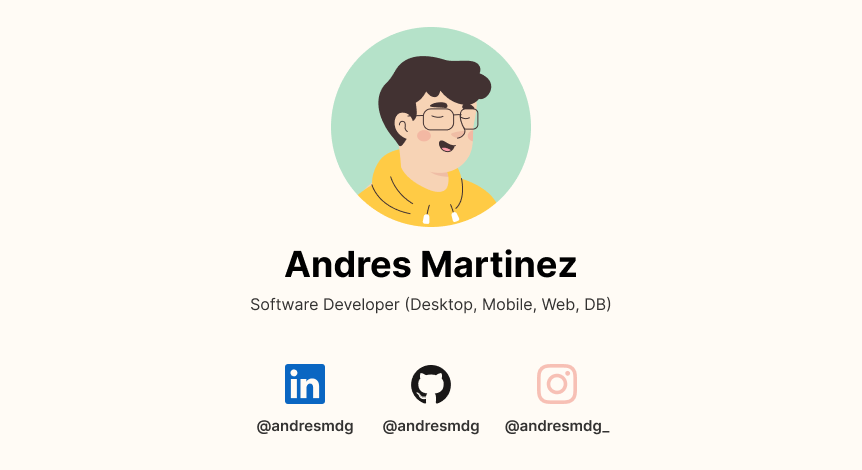
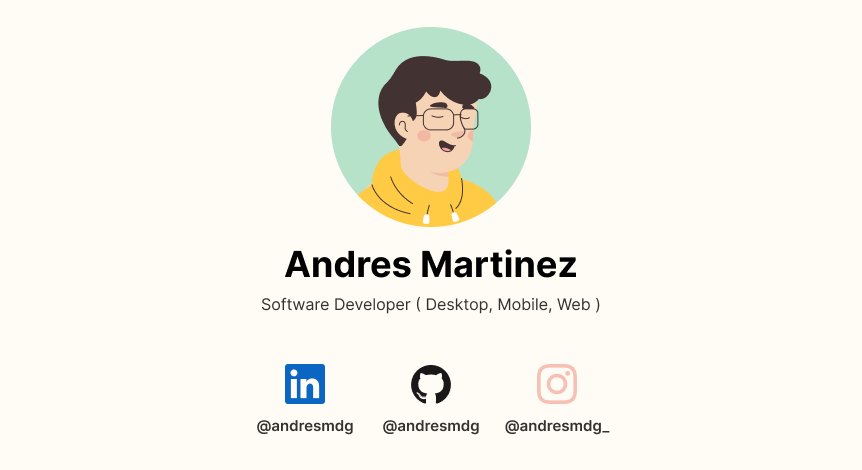
refactor(*): about information

Changed region(s): [[0.2715, 0.6255, 0.7239, 0.6851]]

diff --git a/pages/index.js b/pages/index.js
@@ -24,7 +24,7 @@ const Home = () => (
           <Heading as="h2" variant="page-title">
             Andres Martinez
           </Heading>
-          <p>Software developer ( Web / Desktop / Mobile / DB )</p>
+          <p>Software developer ( Web / Desktop / Mobile )</p>
         </Box>
         <Box
           flexShrink={0}
